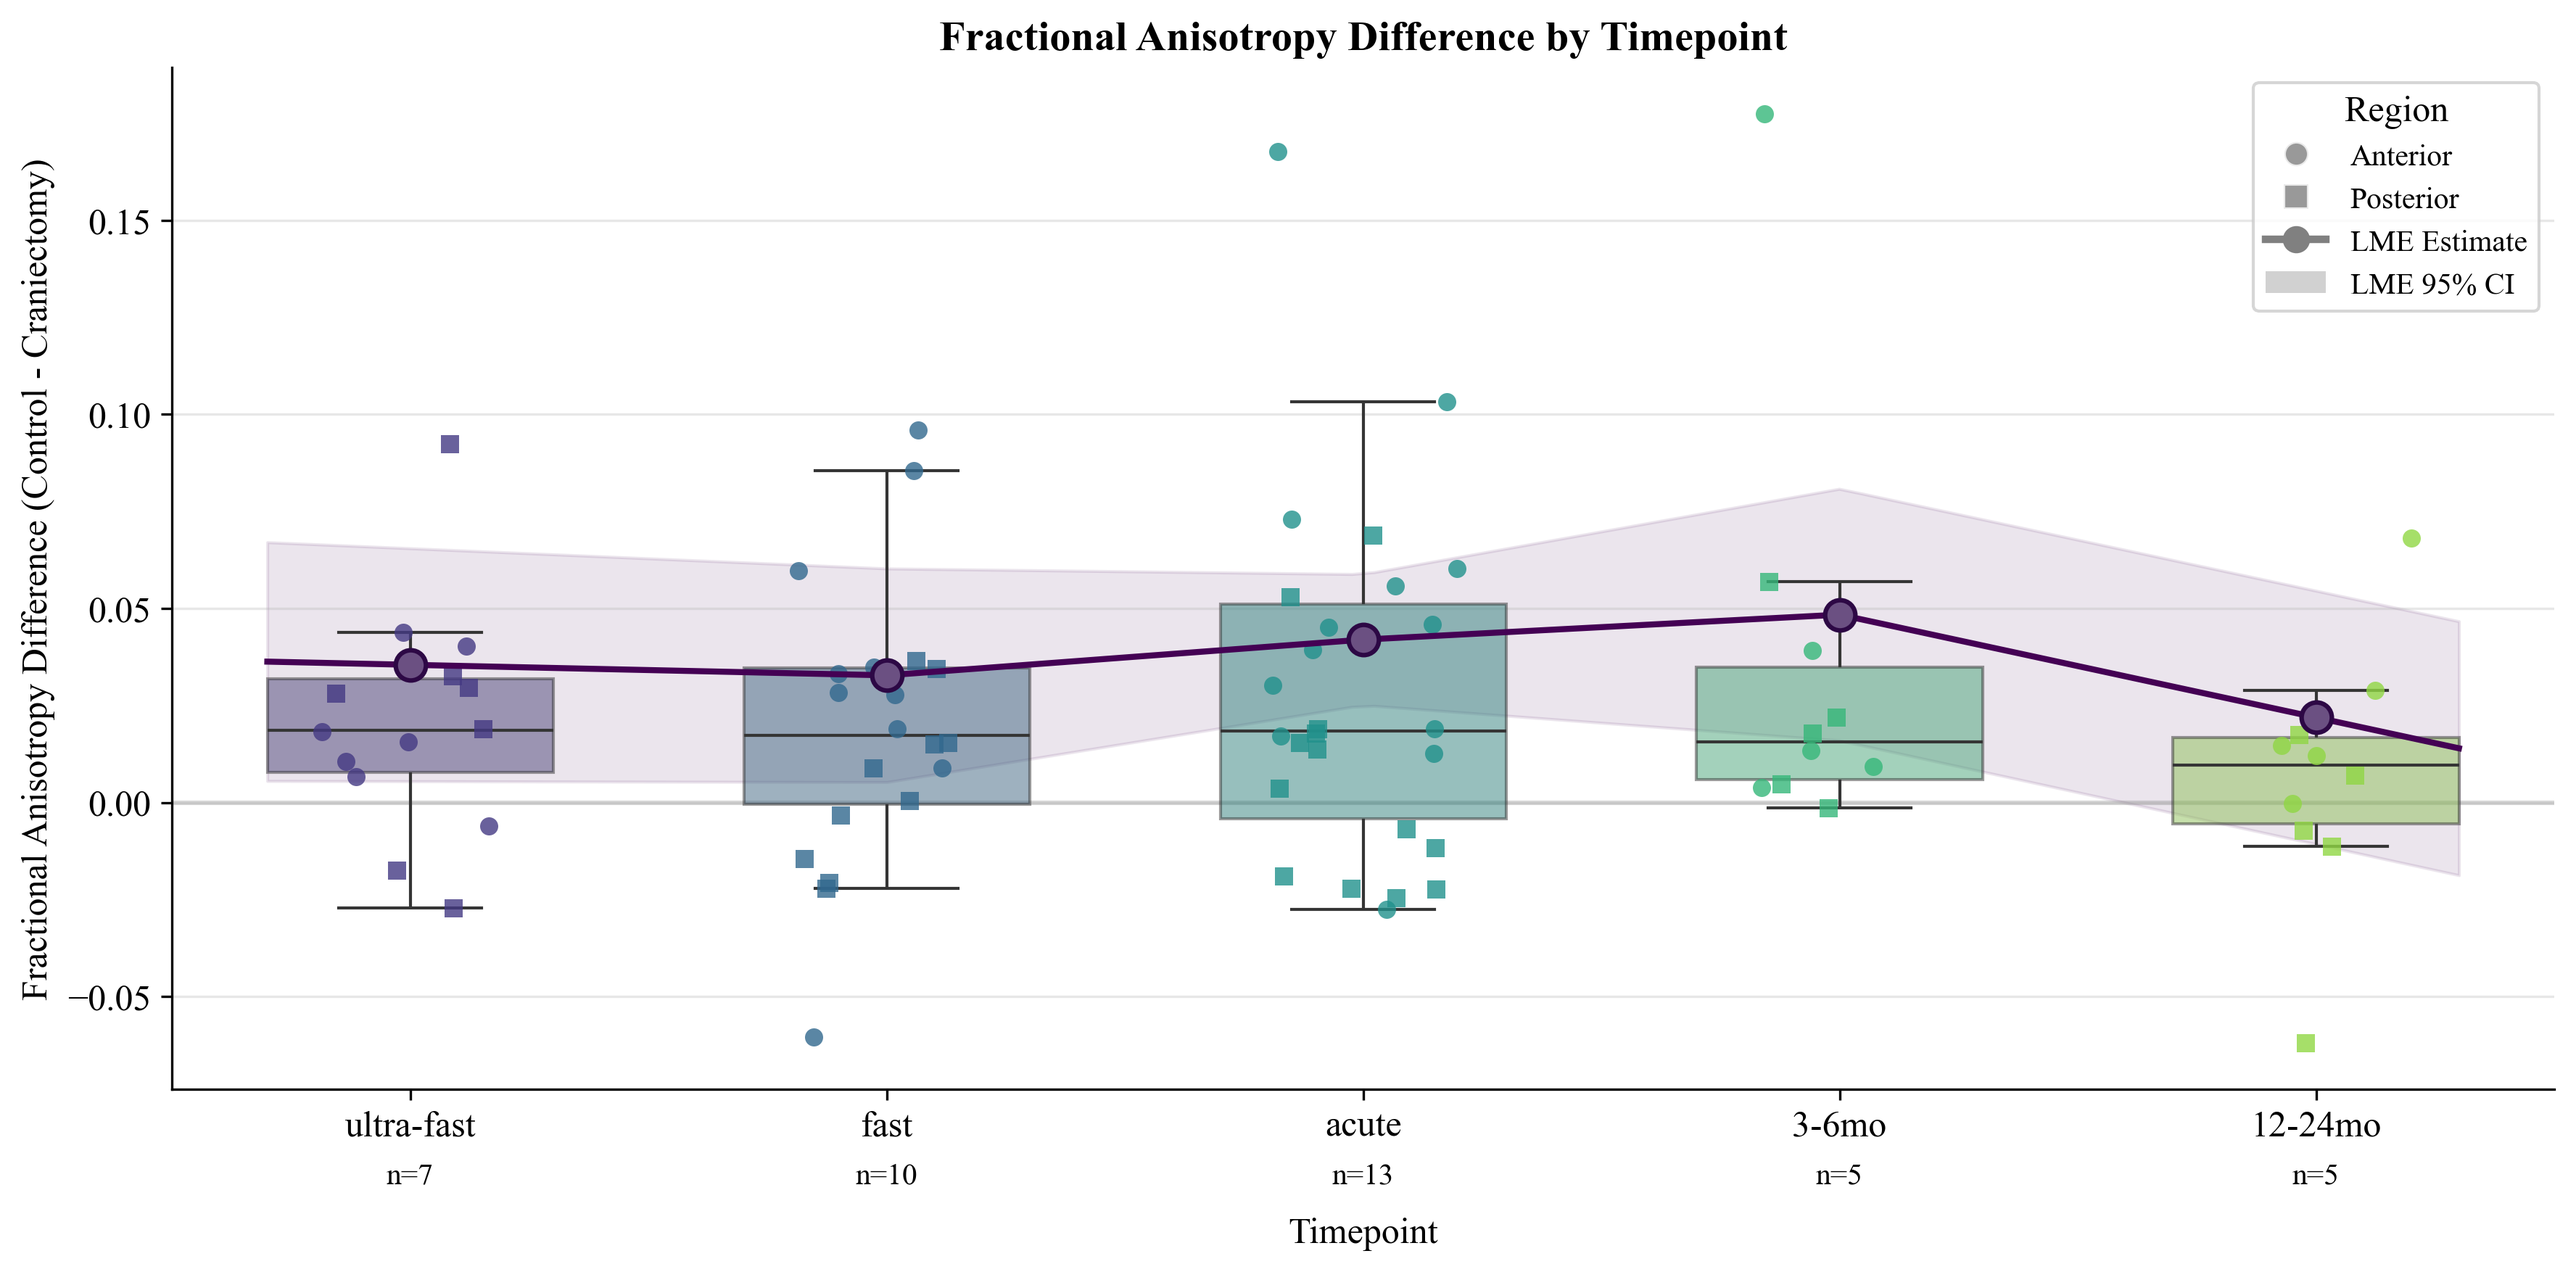
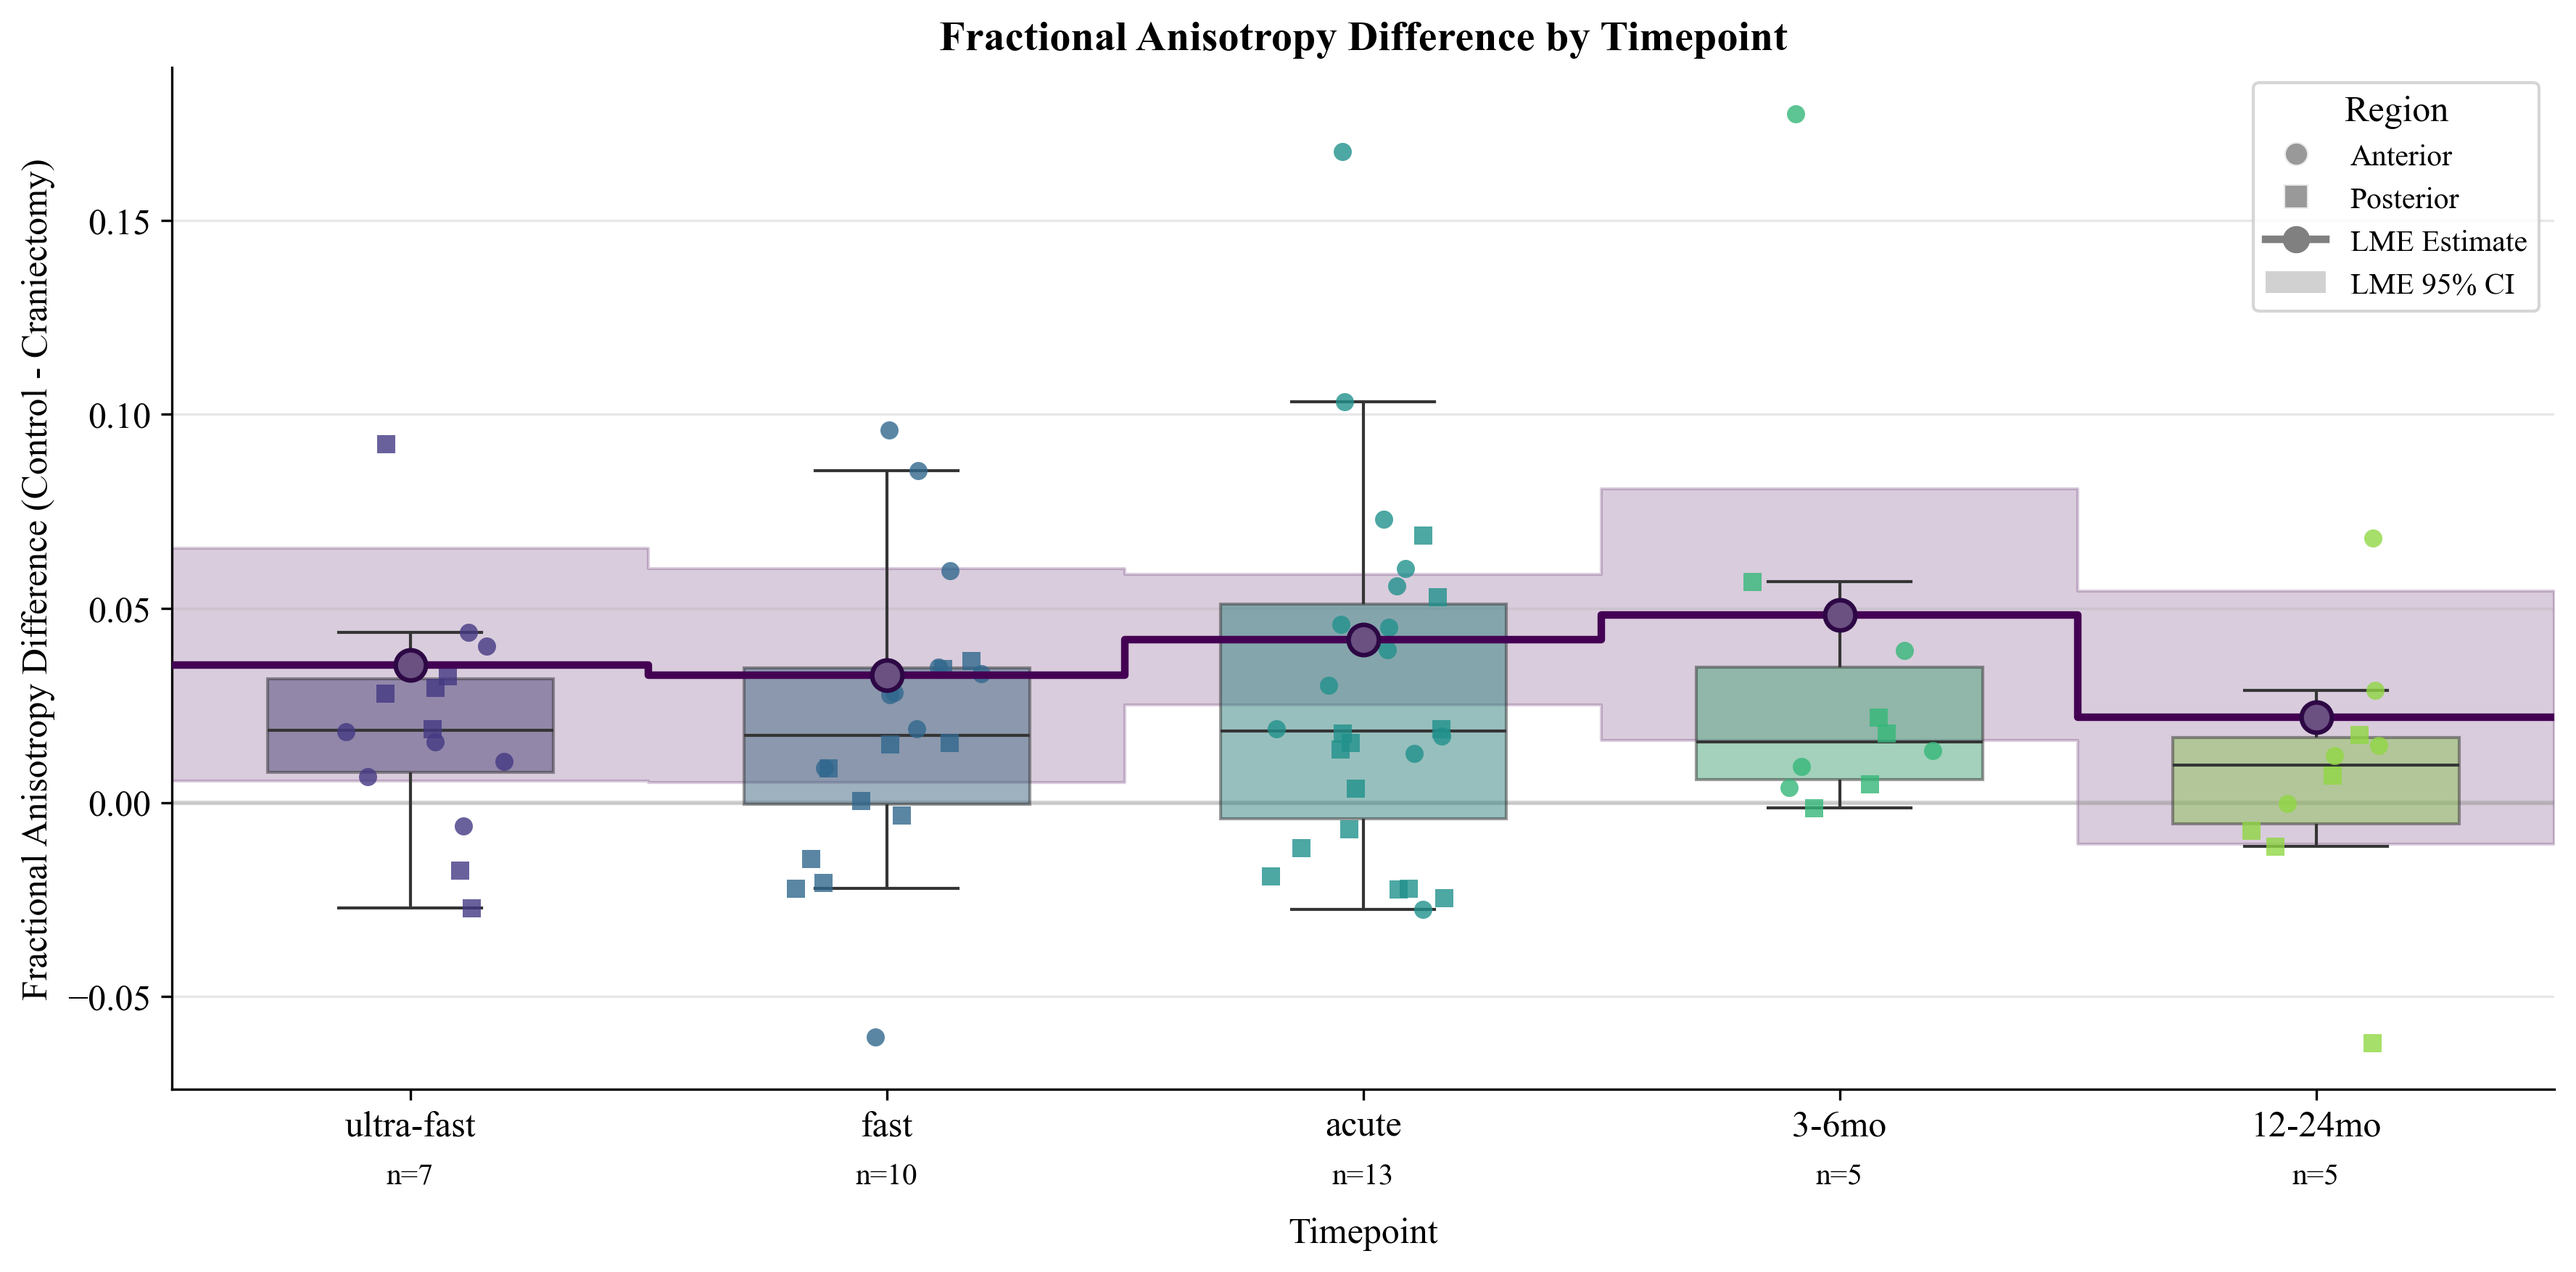
fix confidence intervals

diff --git a/DTI_Processing_Scripts/dti_results_plotting_main.py b/DTI_Processing_Scripts/dti_results_plotting_main.py
@@ -174,73 +174,67 @@ def create_timepoint_boxplot_LME_dti(df, parameter, result, timepoints=['ultra-f
     box_width = 0.6  # Should match your boxplot width
     x_extended = np.linspace(-box_width/2, len(timepoints)-1+box_width/2, 100)
 
-    # Interpolate the estimates and CIs to extended x range
-    from scipy.interpolate import interp1d
-    f_est = interp1d(x_positions, y_estimates, kind='linear', fill_value='extrapolate')
-    f_ci_lower = interp1d(x_positions, ci_lower, kind='linear', fill_value='extrapolate')
-    f_ci_upper = interp1d(x_positions, ci_upper, kind='linear', fill_value='extrapolate')
 
-    y_extended = f_est(x_extended)
-    ci_lower_extended = f_ci_lower(x_extended)
-    ci_upper_extended = f_ci_upper(x_extended)
+    # Create step function instead of linear interpolation
+    x_step = []
+    y_step = []
+    ci_lower_step = []
+    ci_upper_step = []
 
-    # Plot extended continuous confidence band and line
-    ax.fill_between(x_extended, ci_lower_extended, ci_upper_extended, 
-                    alpha=0.1, color='#440154', label='LME 95% CI')  # Dark viridis purple
-    ax.plot(x_extended, y_extended, '-', color='#440154', linewidth=2, 
-            label='LME Estimate', zorder=10)
-    # ax.plot(x_positions, y_estimates, 'o', color='#440154', 
-            # markersize=12, zorder=11)
+    box_width = 0.6
+    for i, (x, y, ci_l, ci_u) in enumerate(zip(x_positions, y_estimates, ci_lower, ci_upper)):
+        if i == 0:
+            # # First timepoint: start from left edge
+            # x_step.extend([x - box_width/2, x + box_width/2])
+            # y_step.extend([y, y])
+            # ci_lower_step.extend([ci_l, ci_l])
+            # ci_upper_step.extend([ci_u, ci_u])
+            
+            # First timepoint: calculate half the distance to next timepoint
+            half_dist_to_next = (x_positions[1] - x) / 2
+            x_step.extend([x - half_dist_to_next, x + half_dist_to_next])
+            y_step.extend([y, y])
+            ci_lower_step.extend([ci_l, ci_l])
+            ci_upper_step.extend([ci_u, ci_u])
+        else:
+            # # Add step up from previous timepoint
+            # x_step.extend([x - box_width/2, x + box_width/2])
+            # y_step.extend([y, y])
+            # ci_lower_step.extend([ci_l, ci_l])
+            # ci_upper_step.extend([ci_u, ci_u])
+            # Calculate midpoint between current and previous timepoint
+            midpoint = (x_positions[i-1] + x) / 2
+            
+            # Extend previous timepoint to midpoint
+            x_step.append(midpoint)
+            y_step.append(y_estimates[i-1])
+            ci_lower_step.append(ci_lower[i-1])
+            ci_upper_step.append(ci_upper[i-1])
+            
+            # Step up/down at midpoint
+            x_step.append(midpoint)
+            y_step.append(y)
+            ci_lower_step.append(ci_l)
+            ci_upper_step.append(ci_u)
+            
+            # Continue to next midpoint or end
+            if i == len(x_positions) - 1:
+                # Last timepoint: extend by half the distance from previous
+                half_dist_from_prev = (x - x_positions[i-1]) / 2
+                x_step.append(x + half_dist_from_prev)
+                y_step.append(y)
+                ci_lower_step.append(ci_l)
+                ci_upper_step.append(ci_u)
+
+
+    # Plot step function
+    ax.fill_between(x_step, ci_lower_step, ci_upper_step, 
+                    alpha=0.2, color='#440154', label='LME 95% CI', step='post')
+    ax.plot(x_step, y_step, '-', color='#440154', linewidth=2.5, 
+            label='LME Estimate', zorder=10, drawstyle='steps-post')
     ax.plot(x_positions, y_estimates, 'o', markerfacecolor='#6B5082', 
         markersize=10, markeredgecolor='#2D0845', markeredgewidth=1.5,
         zorder=11)
-    # x_positions = np.arange(len(timepoints))
-    # y_estimates = [est for _, est, _ in estimate_points]
-    # y_errors = [se for _, _, se in estimate_points]
-
-    # # Calculate confidence intervals
-    # ci_lower = np.array(y_estimates) - 1.96 * np.array(y_errors)
-    # ci_upper = np.array(y_estimates) + 1.96 * np.array(y_errors)
-
-    # # Plot as horizontal segments spanning each timepoint
-    # box_width = 0.6
-    # for i, (x, y, ci_l, ci_u) in enumerate(zip(x_positions, y_estimates, ci_lower, ci_upper)):
-    #     # Confidence interval band
-    #     ax.fill_between([x - box_width/2, x + box_width/2], [ci_l, ci_l], [ci_u, ci_u],
-    #                     alpha=0.15, color='gray', label='LME 95% CI' if i == 0 else "")
-    #     # Main estimate line
-    #     ax.hlines(y, x - box_width/2, x + box_width/2, colors='dimgray', 
-    #             linewidth=3, label='LME Estimate' if i == 0 else "", zorder=10)
-    #     # Point at center
-    #     ax.plot(x, y, 'o', color='dimgray', markersize=6, zorder=11)
-
-
-    # x_positions = np.arange(len(timepoints))
-    # y_estimates = [est for _, est, _ in estimate_points]
-    # y_errors = [se for _, _, se in estimate_points]
-
-    # # Calculate confidence intervals
-    # ci_lower = np.array(y_estimates) - 1.96 * np.array(y_errors)
-    # ci_upper = np.array(y_estimates) + 1.96 * np.array(y_errors)
-
-    # # Plot smooth line and confidence band
-    # ax.fill_between(x_positions, ci_lower, ci_upper, 
-    #                 alpha=0.15, color='gray', label='LME 95% CI')
-    # ax.plot(x_positions, y_estimates, 'o-', color='dimgray', linewidth=2.5, 
-    #         markersize=8, label='LME Estimate', zorder=10)
-    
-    # Add scatter points, colored by region
-    # # For anterior (using circles)
-    # sns.stripplot(x='timepoint', y='diff_value', 
-    #             data=melted_data[melted_data['region'] == 'Anterior'],
-    #             dodge=False, jitter=0.2, size=6, alpha=0.8, ax=ax,
-    #             marker='o') #color='#3498db'
-
-    # # For posterior (using squares)
-    # sns.stripplot(x='timepoint', y='diff_value', 
-    #             data=melted_data[melted_data['region'] == 'Posterior'],
-    #             dodge=False, jitter=0.2, size=6, alpha=0.8, ax=ax,
-    #             marker='s') # color='#e74c3c', 
 
     # For anterior (using circles)
     for i, tp in enumerate(timepoints):
